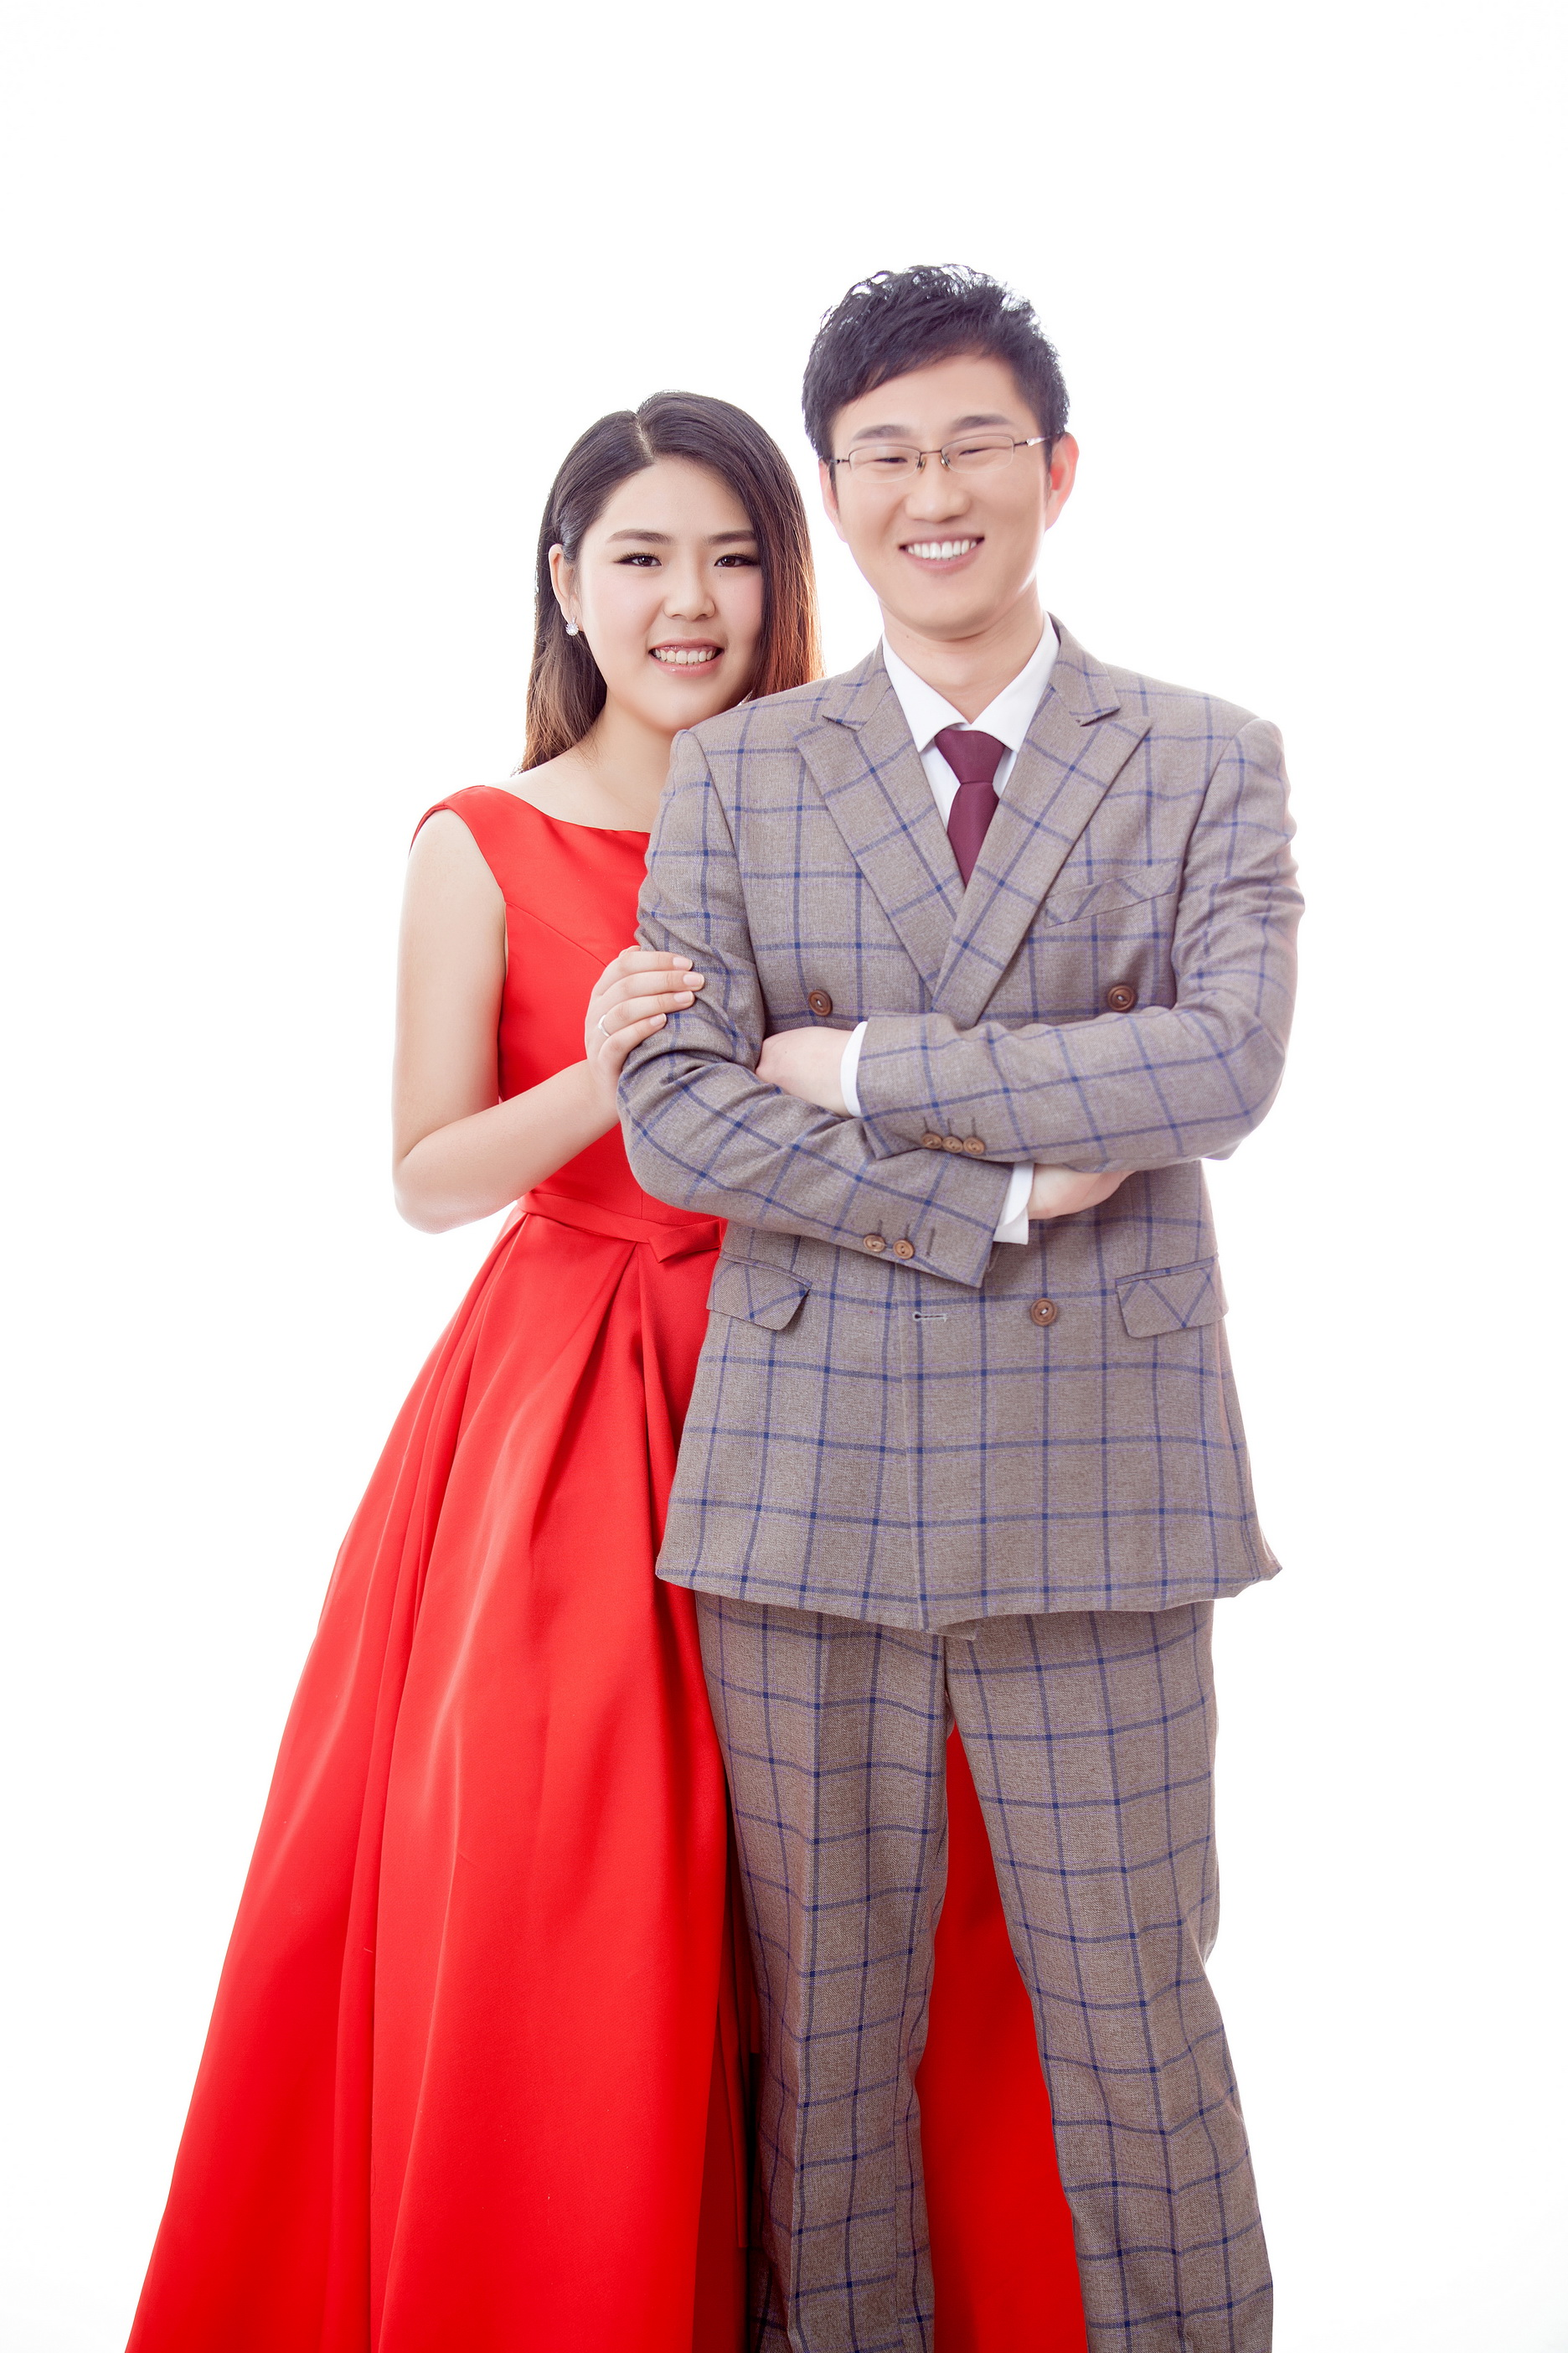
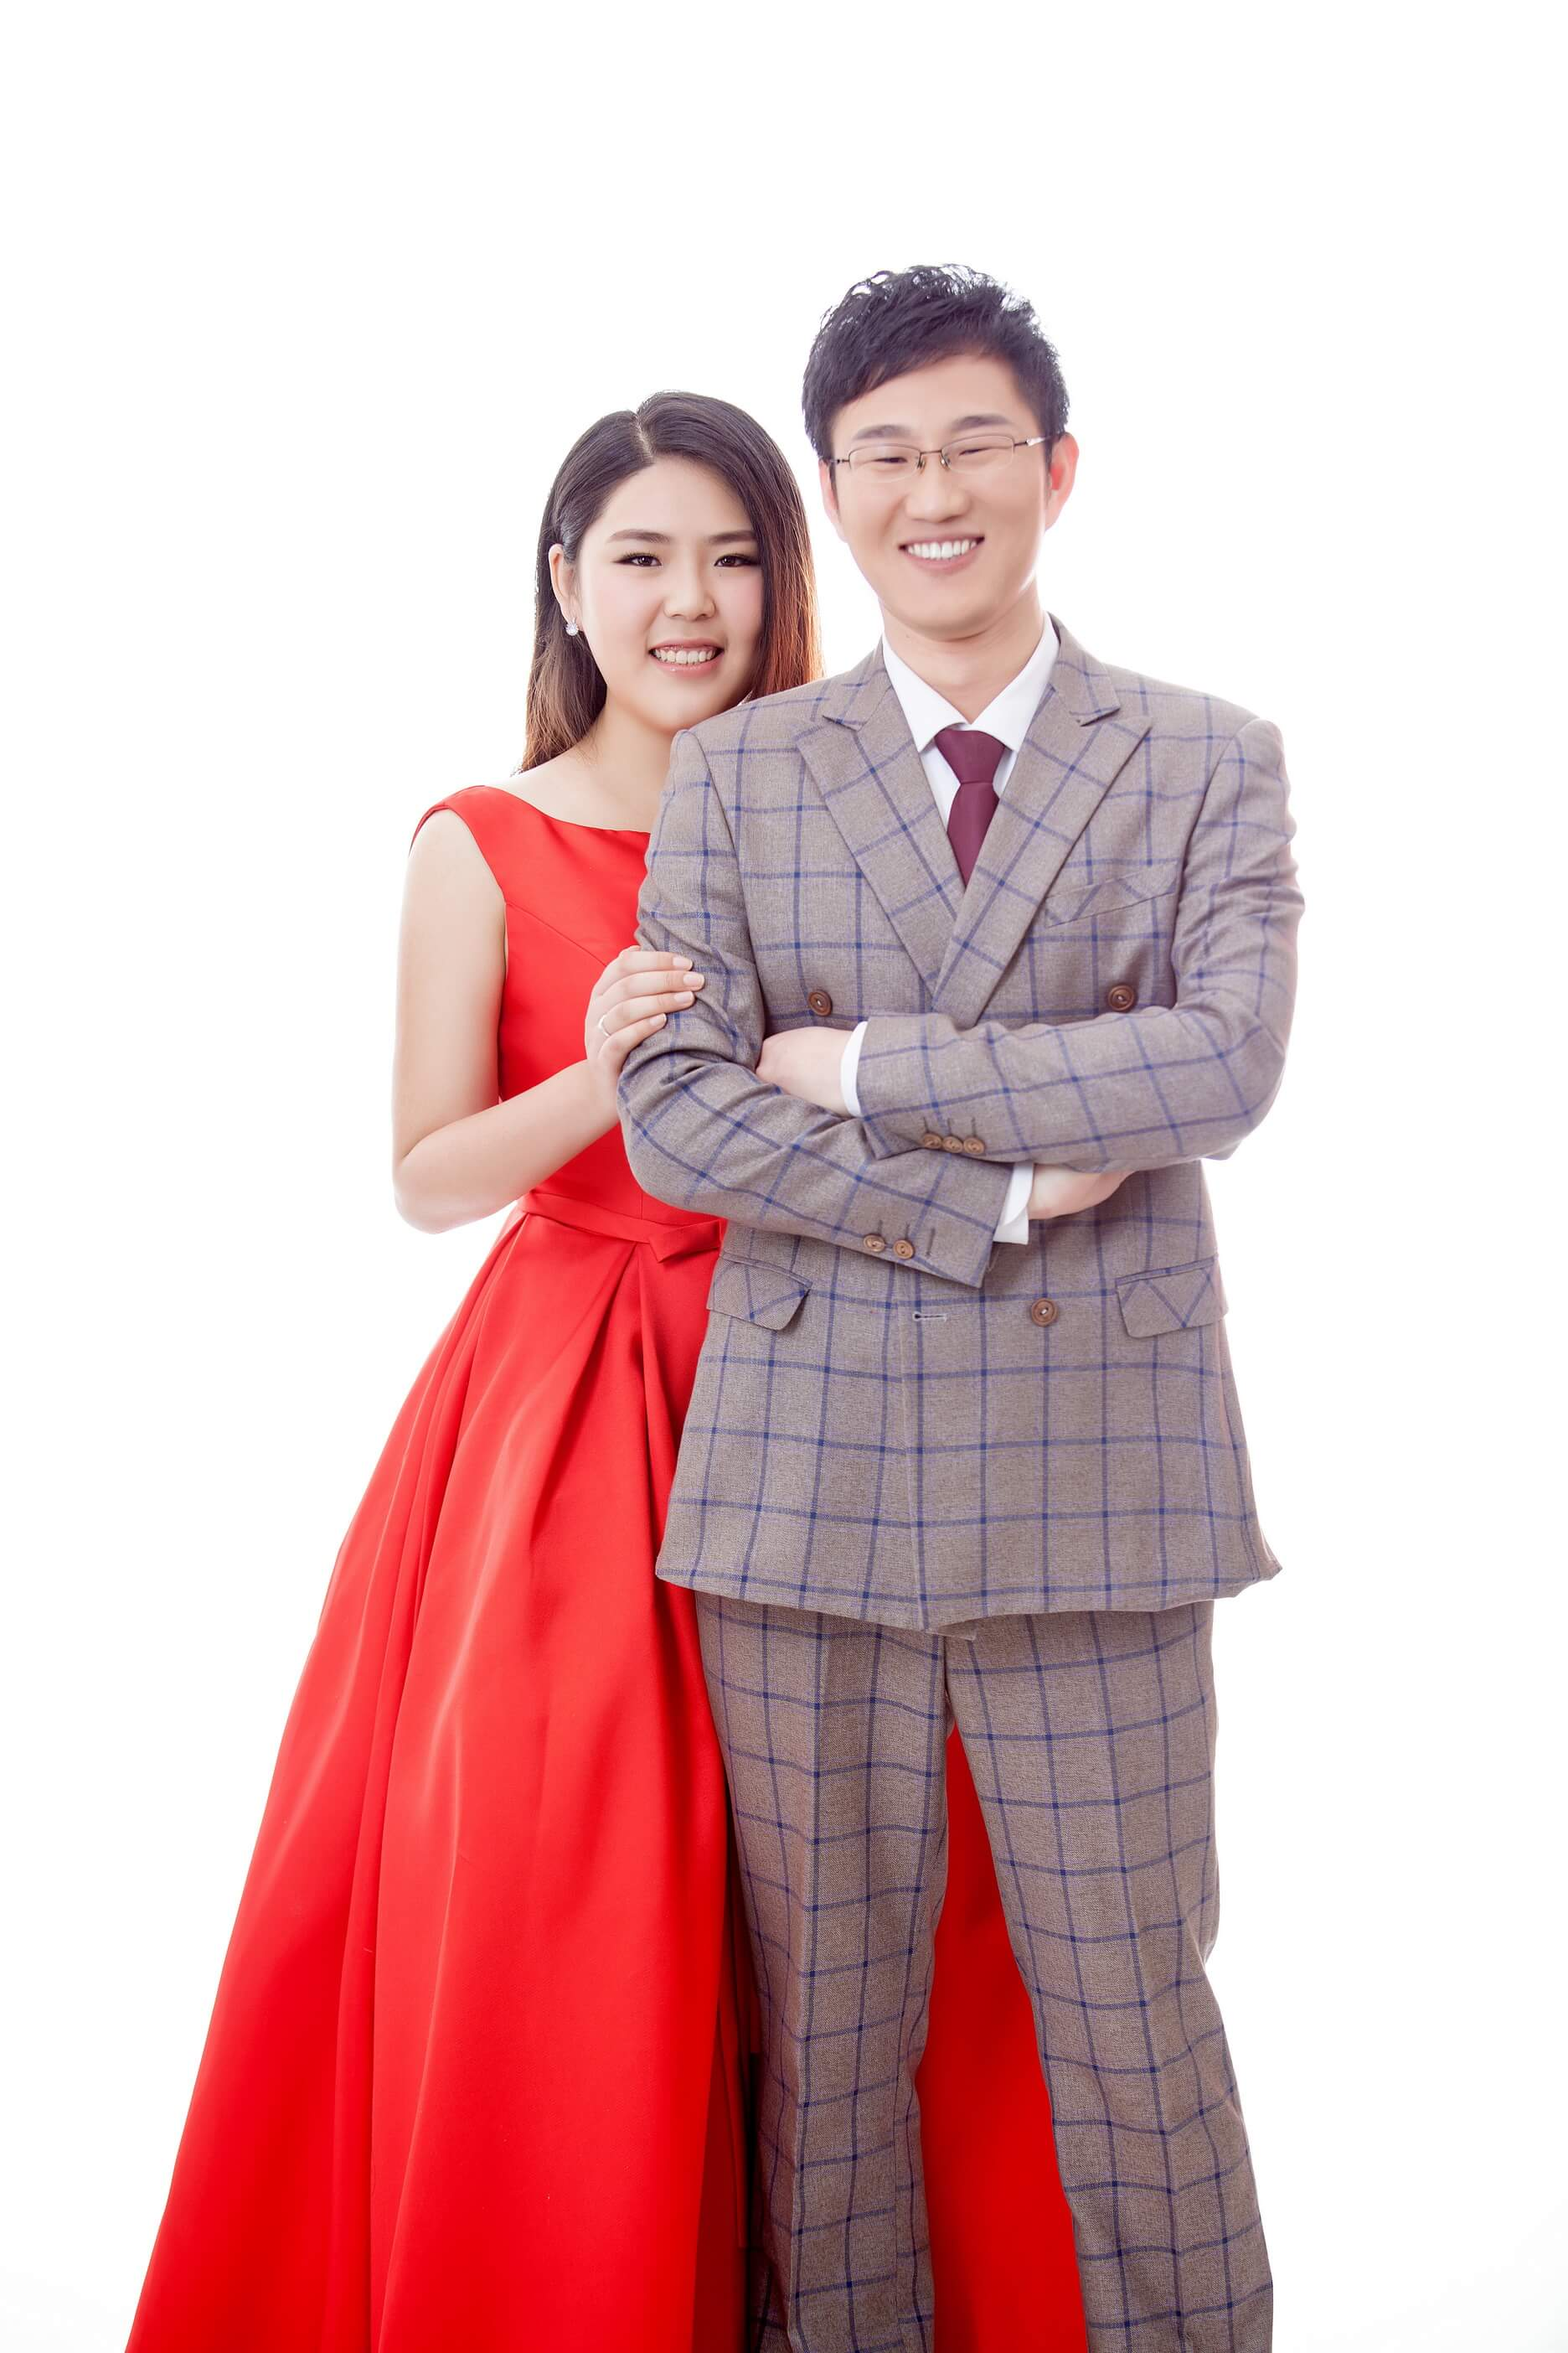
'压缩图片'

Changed region(s): [[0.4957, 0.7126, 0.5887, 0.8985], [0.6816, 0.7746, 0.7436, 0.9295], [0.6506, 0.7436, 0.6816, 0.7746]]

diff --git a/js/wedding.js b/js/wedding.js
@@ -14,7 +14,7 @@
 		//-----------------------------------------------
 		$('.flexslider').flexslider({
 	        animation: "slide",
-	        animationLoop: true,
+	        animationLoop: false,
 	        itemWidth: 414,
 	        itemMargin: 0,
 	        pausePlay: false,
